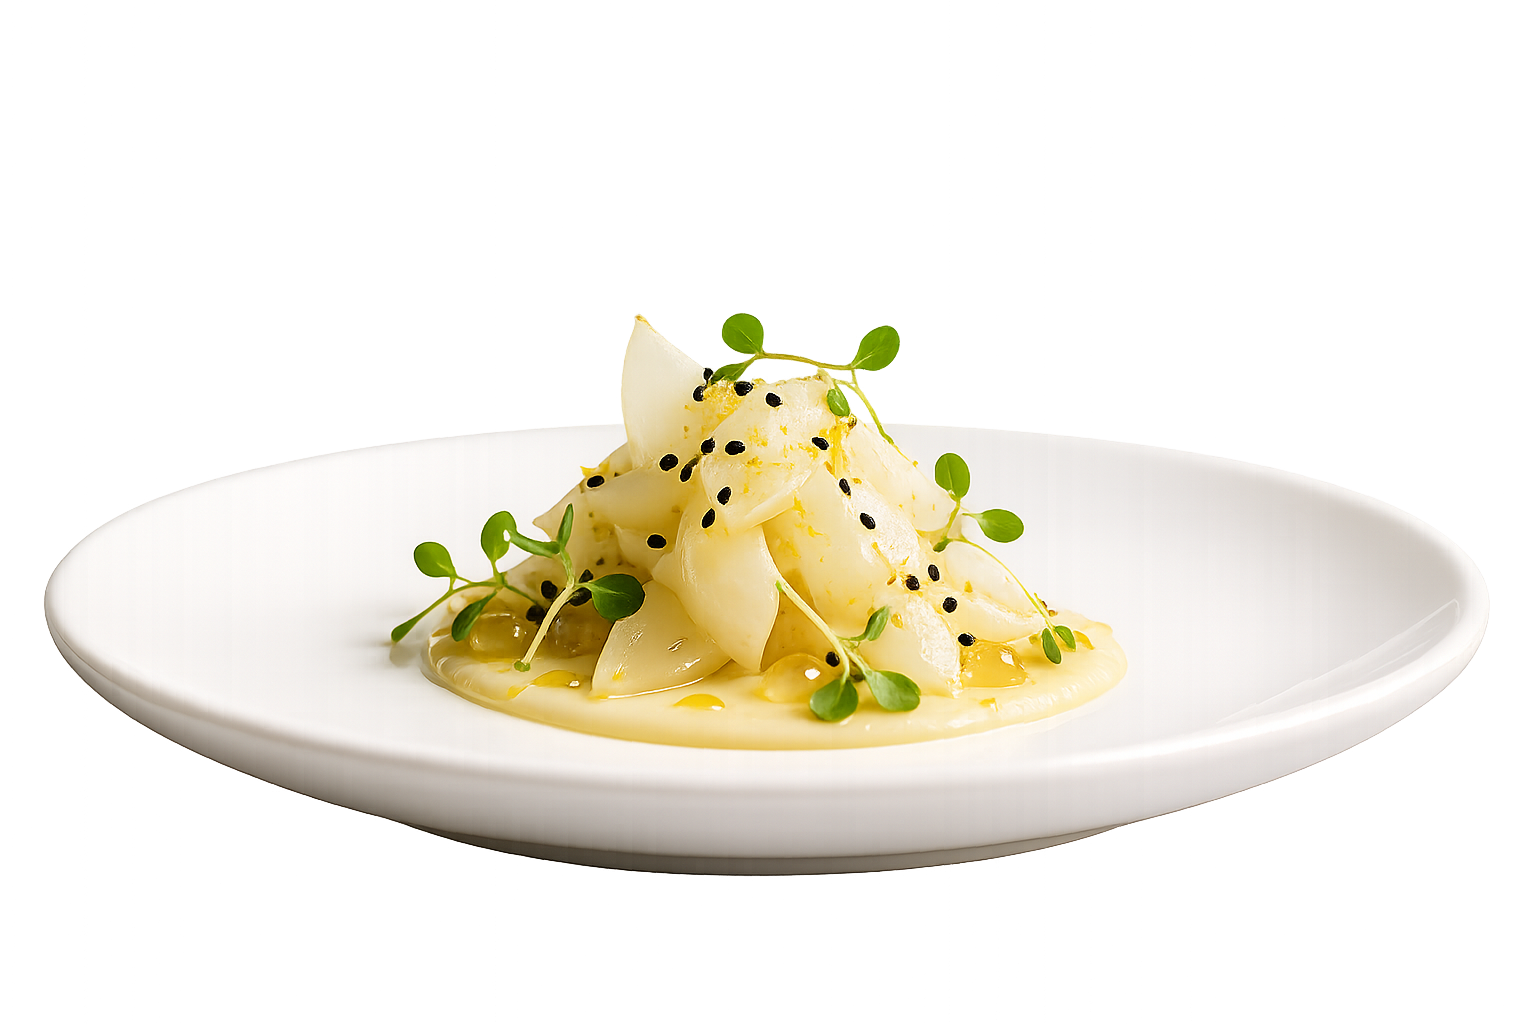
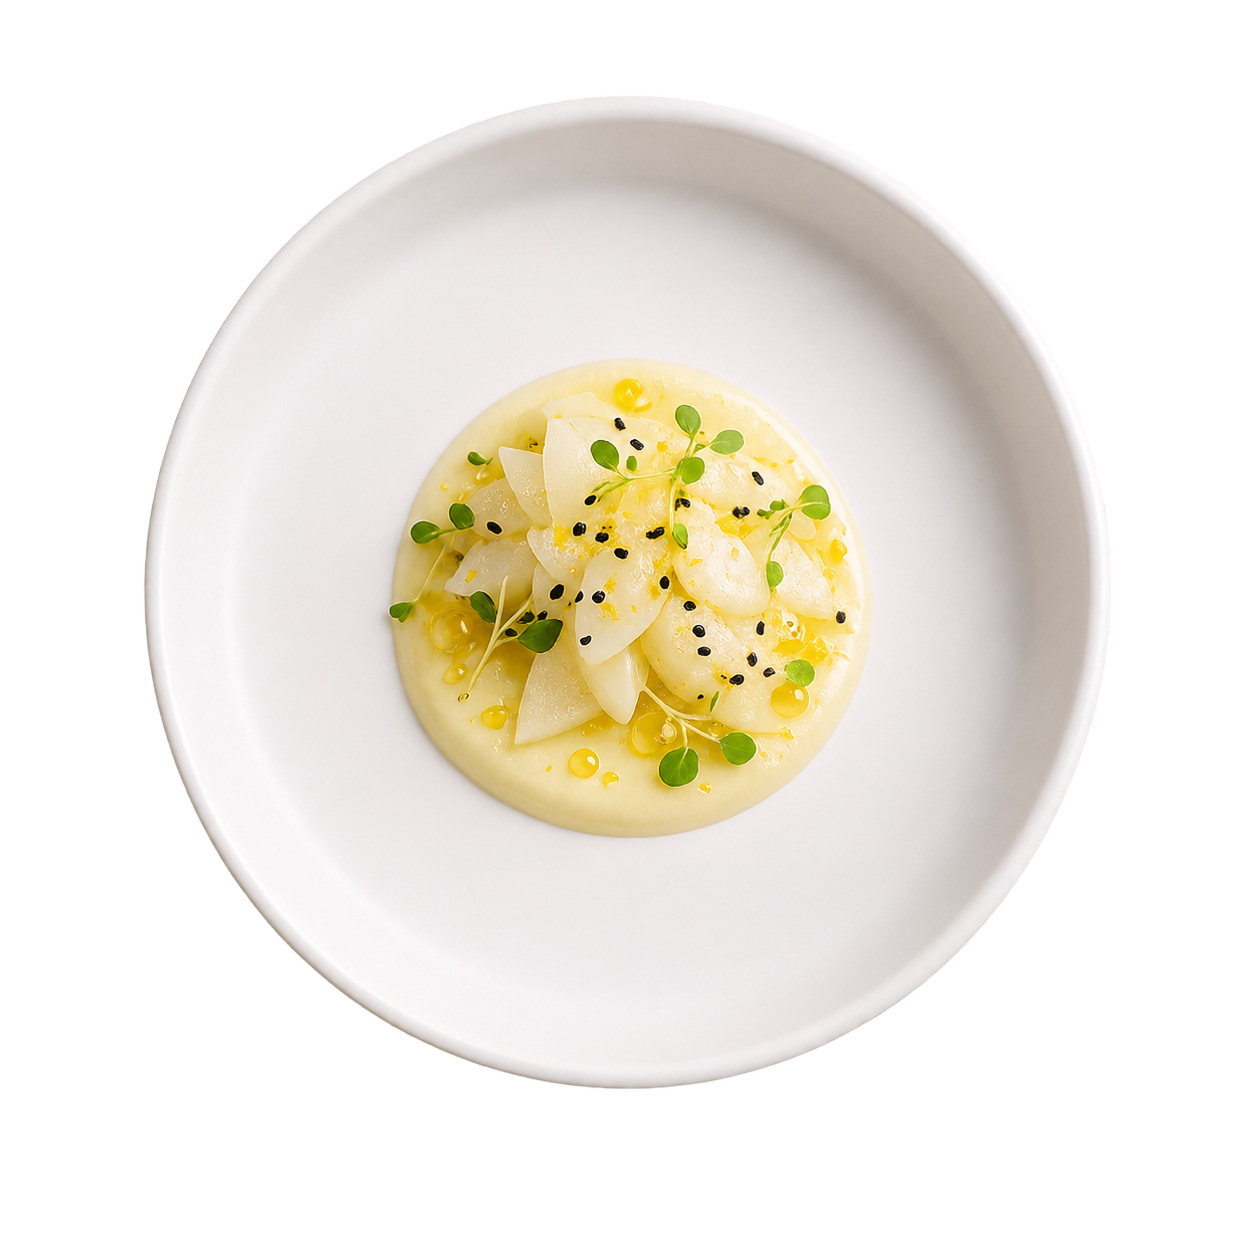
Amuse-Bild getauscht, Bildmaße auf 1254x1254 korrigiert

diff --git a/index.html b/index.html
@@ -565,7 +565,7 @@
         <div class="csub" data-reveal>Marinierte Nashi · Miso-Creme · Yuzu-Gel</div>
       </div>
       <figure class="dish-photo" data-reveal-photo>
-        <img src="assets/amuse.png" width="1536" height="1024" decoding="async" loading="lazy"
+        <img src="assets/amuse.png" width="1254" height="1254" decoding="async" loading="lazy"
           alt="Amuse — marinierte Nashi mit Shiro-Miso-Creme, schwarzem Sesam und Kresse">
       </figure>
     </div>